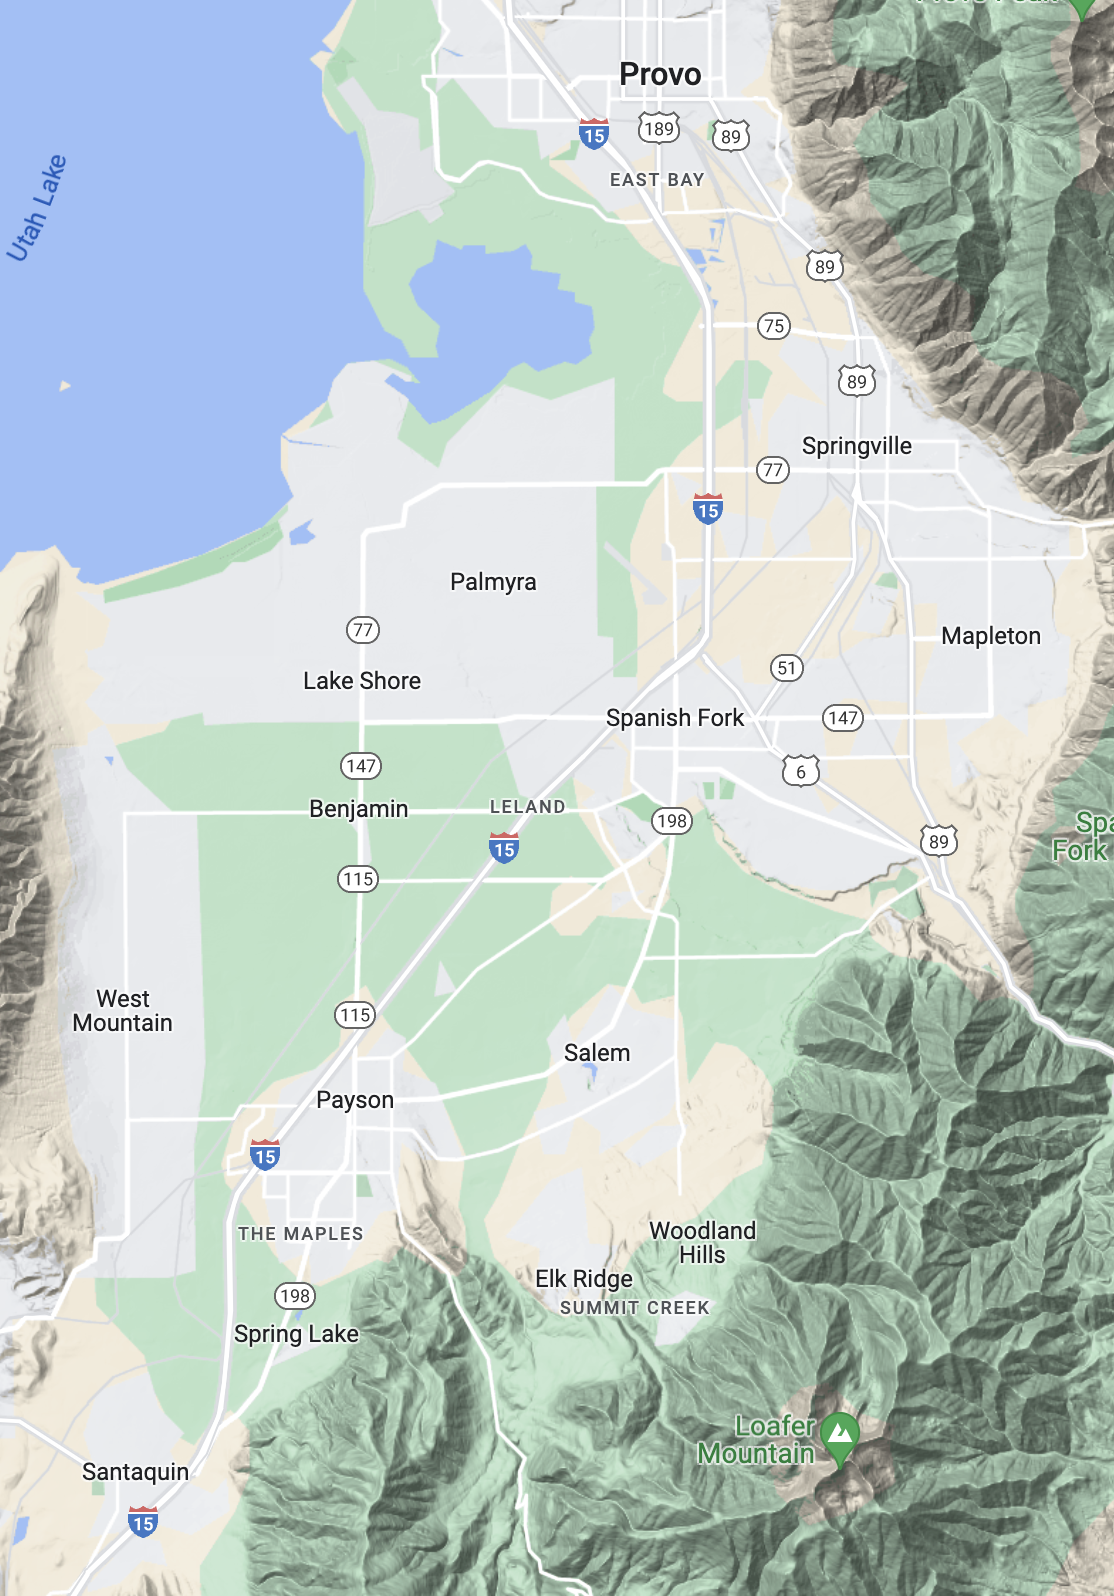
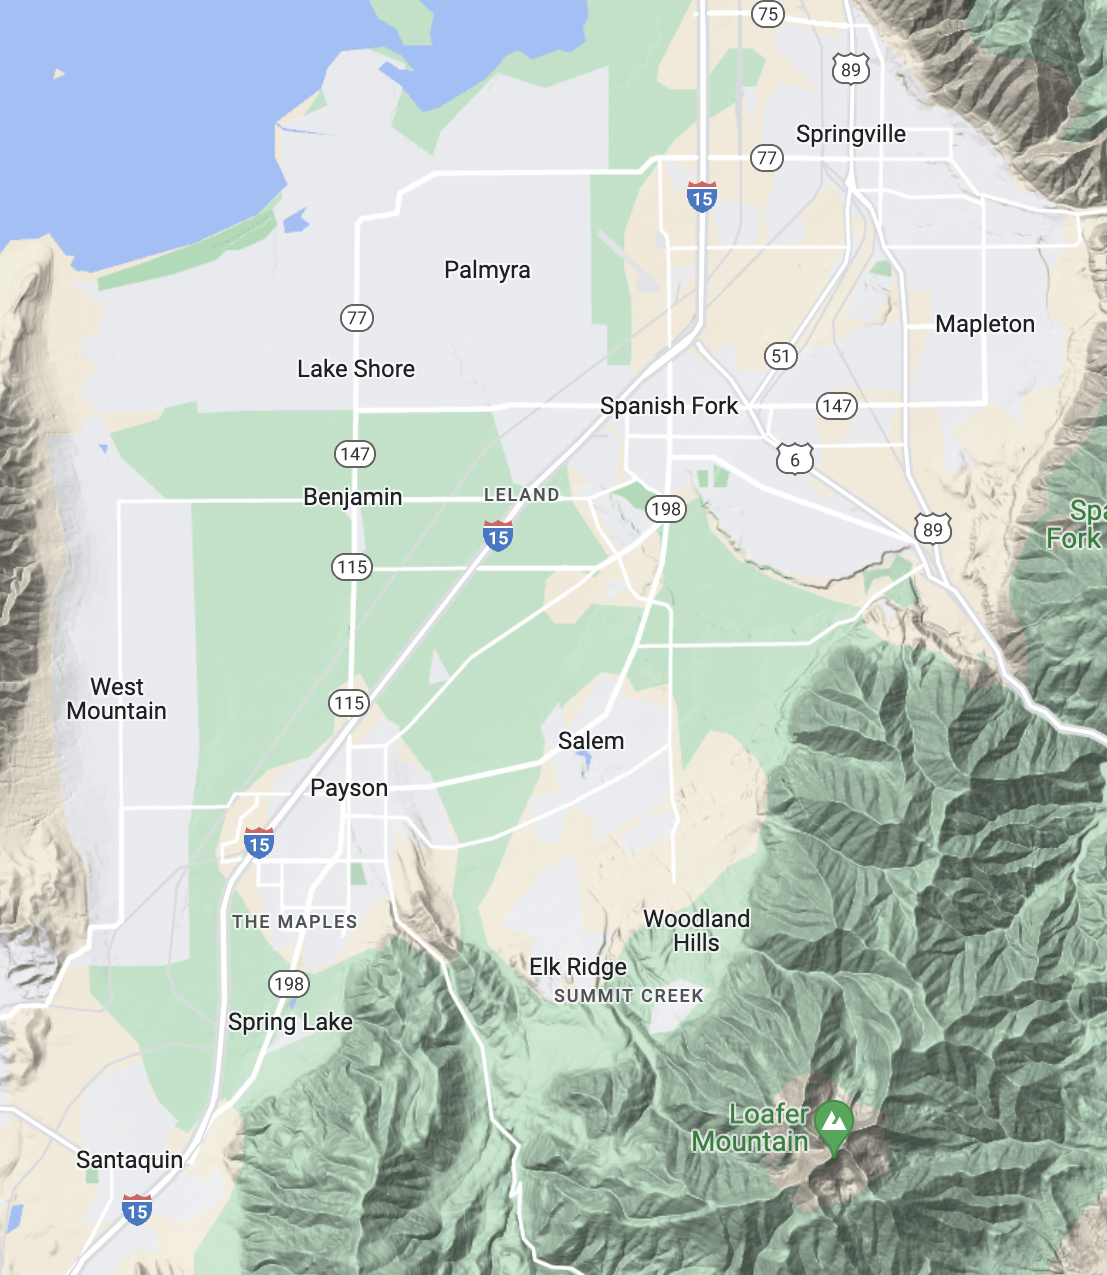
updated service area per client request

diff --git a/src/Pages/Home/index.jsx b/src/Pages/Home/index.jsx
@@ -52,7 +52,7 @@ const Home = () => {
           <TextContainer>
             Based out of Payson, UT.
             <br />
-            Now Accepting Clients from Provo to Santaquin.
+            Now Accepting Clients from Springville to Santaquin.
             <br />
             <br />
             <br />* Discounts available if you&apos;d prefer to bring your dog to Payson.
